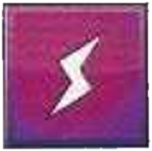
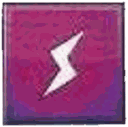
2차: 화면 확인 반영 (넓은 카메라, 기호 크기, 업적·기업상 카메라, 아이콘 용량 1.2MB→0.23MB), 메인 버튼 재구성(RULES=장면 찾기, SCORE=점수 세기, 닫기=메인)
Claude-Session: https://claude.ai/code/session_01T2zwiYcNZAZaHf7Rn5ERq8

diff --git a/index.html b/index.html
@@ -3,7 +3,7 @@
 <head>
 <meta charset="utf-8">
 <meta name="viewport" content="width=device-width, initial-scale=1, viewport-fit=cover">
-<meta name="build" content="20261021212009">
+<meta name="build" content="20261021221947">
 <meta name="theme-color" content="#130c0b">
 <meta name="mobile-web-app-capable" content="yes">
 <meta name="apple-mobile-web-app-capable" content="yes">
